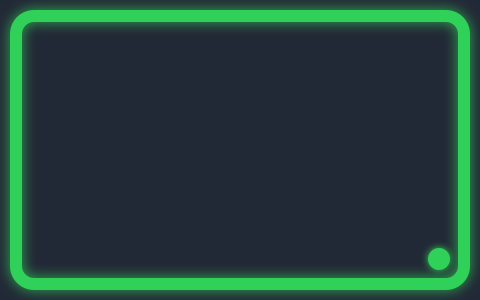
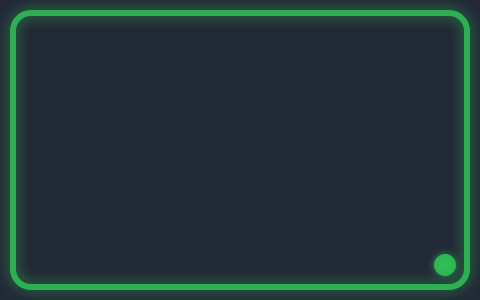
Make the Frame border thinner and lighter
Line width 8→4pt and steady opacity ~0.75 (pulses down to 0.25 while working)
for a subtler screen edge. Regenerate the README Frame mockup to match.

Changed region(s): [[0.0, 0.0, 1.0, 0.99]]

diff --git a/Sources/SignalerApp/FrameOverlay.swift b/Sources/SignalerApp/FrameOverlay.swift
@@ -20,7 +20,7 @@ final class FrameOverlay {
     private var lastState: AgentState?
 
     private let inset: CGFloat = 5
-    private let lineWidth: CGFloat = 8
+    private let lineWidth: CGFloat = 4
 
     init() {
         NotificationCenter.default.addObserver(
@@ -118,17 +118,18 @@ private final class BorderView: NSView {
             return
         }
         shape.strokeColor = color.cgColor
+        let steady: Float = 0.75   // lighter than a solid border
         if pulse {
             let a = CABasicAnimation(keyPath: "opacity")
-            a.fromValue = 1.0
-            a.toValue = 0.35
+            a.fromValue = steady
+            a.toValue = 0.25
             a.duration = 0.8
             a.autoreverses = true
             a.repeatCount = .infinity
             a.timingFunction = CAMediaTimingFunction(name: .easeInEaseOut)
             shape.add(a, forKey: "pulse")
         } else {
-            shape.opacity = 1.0
+            shape.opacity = steady
         }
     }
 }